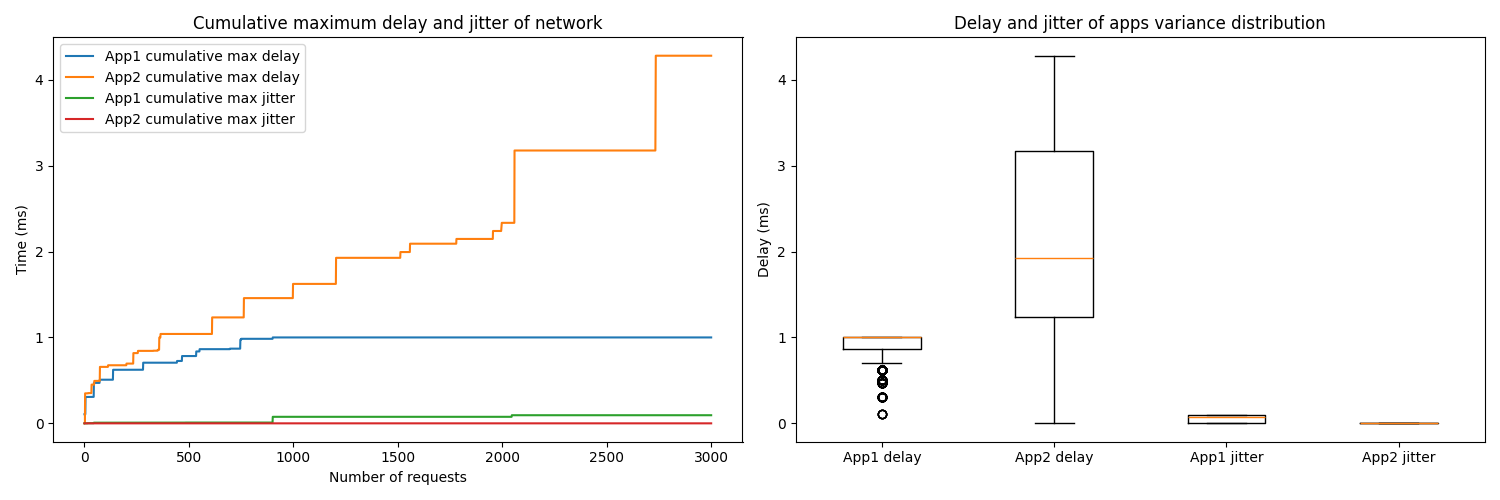
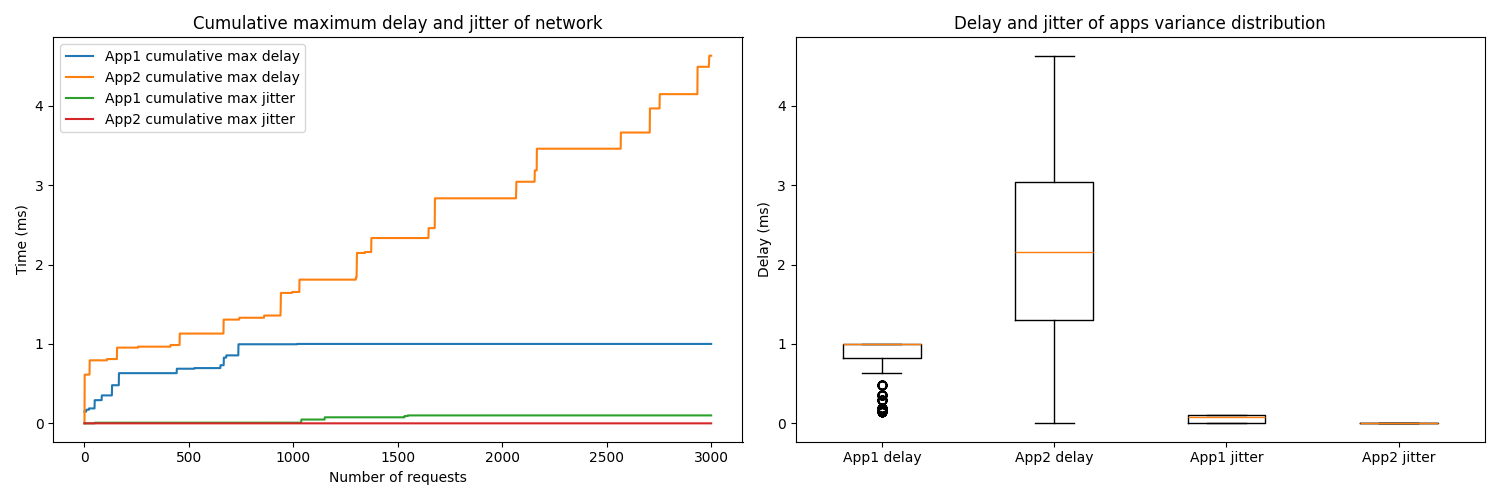
fixing the scheduling window size

diff --git a/heuristic_gui.py b/heuristic_gui.py
@@ -1,3 +1,4 @@
+import copy
 from problem.GRASP_model import GRASP
 from problem.flow import Flow
 from problem.greedy_model import Greedy
@@ -6,13 +7,12 @@ import json
 SOLVER = "greedy"
 
 # instance_generator/factor_f/instance_11.json
-with open('instance_generator/instances/instance_jitter/instance.json', 'r') as f:
+with open('tests/c11.json', 'r') as f:
     data = json.load(f)
 
     # constructive solution
     instance = Greedy(network_parameeter=data)
     instance.pre_processing()
-
 
     sol = instance.solve()
 
@@ -23,32 +23,7 @@ with open('instance_generator/instances/instance_jitter/instance.json', 'r') as 
         print("Constructive solution with maximum jitter", j, "maximum delay", d)
         #instance.ls()
 
-        link1 = instance.network.get_link_by_id(1)
-        fragmentation = {}
-        t_e = link1.get_t_e()
-        for obj in link1.fragmentation():
-            val,start,end = obj
-            if val == 1:
-                fragmentation[start] = end-start
-        
-        # with df split fragmentation in category
-        from pandas import DataFrame, cut
-        df = DataFrame(fragmentation.items(), columns=['start', 'size'])
-        SECTIONS = 40
-        df['category'] = cut(df['start'], bins=range(0, int(t_e) + 1, int(t_e/SECTIONS)), labels=range(1, int(t_e) + 1, int(t_e/SECTIONS)), right=False)
-        df['size'] = df['size'] * link1.tau_e / 10**3
-        #remove start column
-        df.drop(columns=['start'], inplace=True)
-        
-        # boxplot with df
-        import matplotlib.pyplot as plt
-        # draw boxplot
-        df.boxplot(column='size', by='category')
-        plt.title('Contiguos available time')
-        plt.ylabel('Available time (us)')
-        plt.xlabel('Cycle section')
-        plt.show()
-
+    
     if SOLVER == "grasp":
         instance = GRASP(network_parameeter=data)
         instance.set_alpha(0.1)
@@ -79,45 +54,15 @@ with open('instance_generator/instances/instance_jitter/instance.json', 'r') as 
         print("---",SOLVER,"---")
         print("Constructive solution with maximum jitter", j, "maximum delay", d)
 
-        if SOLVER == "brkga":
-            instance = BRKGADecoder(network_parameeter=data)
-            instance.pre_processing()
-
-            config = {
-                "individualsMultiplier" : 1,
-                "eliteProp" : 0.3,
-                "mutantProp" : 0.5,
-                "inheritanceProb" : 0.7,
-                "maxExecTime" : 10,
-            }
-
-            numGenes = instance.get_number_genes()
-
-            config['numGenes'] = numGenes
-            config['numIndividuals'] = int(config["individualsMultiplier"] * numGenes)
-            config['numElite'] = int(config["eliteProp"] * config["numIndividuals"])
-            config['numMutants'] = int(config["mutantProp"] * config['numIndividuals'])
-            config['numCrossover'] = int(config['numIndividuals'] - config['numElite']- config['numMutants'] )
-                
-            print(config)
-            
-            solver = Solver_BRKGA(config, instance)
-            solution,d_fi,j_f = solver.solve(initial_solution=(x_feti,d_fi,j_f),fitness=(j,d))
-            instance.x_feti = solution
-            instance.d_fi = d_fi
-            instance.j_f = j_f
-
         #instance.export_results("heuristic_results_pre")
         #print(instance.stat())
+        instance.new_request(Flow(-1,[1,2], 400, 1000, 400, 100))
+        instance.new_request(Flow(-1,[1,2], 400, 1000, 400, 100))
+        instance.new_request(Flow(-1,[1,2], 400, 1000, 400, 100))
         
+        instance.generate_gantt()
+
         """
-        # new request 1
-        flow = Flow(-1,[2], 500, 256, 128, 500)
-        instance.flow_prepare(flow)
-        if instance.new_request(flow):
-            instance.export_results("heuristic_results_post_1")
-        
-        
         # new request 2
         flow = Flow(-1,[1,3], 100, 256, 128, 200)
         instance.flow_prepare(flow)

diff --git a/instance_generator/generate_graph_xls.py b/instance_generator/generate_graph_xls.py
@@ -1,0 +1,72 @@
+
+from argparse import ArgumentParser
+import csv
+import os
+
+import pandas as pd
+
+parser = ArgumentParser()
+parser.add_argument("-f", "--filename", dest="filename", help="Output filename.", required=True)
+
+args = parser.parse_args()
+
+# generate a graph from csv file
+import matplotlib.pyplot as plt
+import numpy as np
+
+if args.filename is None:
+    print("Filename is required")
+    exit()
+
+if not args.filename.endswith(".xlsx"):
+    print("Filename must be a xlsx file")
+    exit()
+
+df = pd.read_excel(args.filename)
+
+
+n_requests = range(1, len(df)+1)
+
+app1_requests = df[ df['app'] == 'App_1']
+n_requests_app1 = range(1, len(app1_requests)+1)
+app2_requests = df[ df['app'] == 'App_2']
+n_requests_app2 = range(1, len(app2_requests)+1)
+
+# GRAPH 2 - KPI 
+figure, ax = plt.subplots(2,2, figsize=(15,15))
+ax[0,0].plot(n_requests_app1, app1_requests['delay'], label='App1 delay')
+ax[0,0].plot(n_requests_app1, app1_requests['jitter'], label='App1 jitter')
+ax[0,0].legend()
+ax[0,0].set_xlabel('Number of requests')
+ax[0,0].set_ylabel('Time (ms)')
+ax[0,0].set_title('Delay and jitter of App1')
+
+ax[0,1].plot(n_requests_app1, app1_requests['max_delay_app1'], label='App1 cumulative max delay')
+#ax[0,1].plot(app1_n_requests, app1_delay_mean, label='App1 cumulative mean delay')
+
+ax[0,1].plot(n_requests_app1, app1_requests['max_jitter_app1'], label='App1 cumulative max jitter')
+ax[0,1].legend()
+ax[0,1].set_xlabel('Number of requests')
+ax[0,1].set_ylabel('Time (ms)')
+ax[0,1].set_title('Cumulative maximum delay and jitter of App1')
+
+ax[1,0].plot(n_requests_app2, app2_requests['delay'], label='App2 delay')
+ax[1,0].plot(n_requests_app2, app2_requests['jitter'], label='App2 jitter')
+ax[1,0].legend()
+ax[1,0].set_xlabel('Number of requests')
+ax[1,0].set_ylabel('Time (ms)')
+ax[1,0].set_title('Delay and jitter of App2')
+
+ax[1,1].plot(n_requests_app2, app2_requests['max_delay_app2'], label='App2 cumulative max delay')
+#ax[1,1].plot(app2_n_requests, app2_delay_mean, label='App2 cumulative mean delay')
+
+ax[1,1].plot(n_requests_app2, app2_requests['max_jitter_app2'], label='App2 cumulative max jitter')
+ax[1,1].legend()
+ax[1,1].set_xlabel('Number of requests')
+ax[1,1].set_ylabel('Time (ms)')
+ax[1,1].set_title('Cumulativ emaximum delay and jitter of App2')
+plt.tight_layout()
+#extract the folder name
+folder_name = os.path.dirname(args.filename)
+plt.savefig(f'{folder_name}/kpi.png')
+

diff --git a/problem/heuristics_model.py b/problem/heuristics_model.py
@@ -424,6 +424,7 @@ class Heuristics(TSNScheduling):
     def new_request(self, flow : Flow, ch = None) :
 
         flow = self.flow_prepare(flow)
+        
         tick = self.now()
         network = copy.deepcopy(self.network)
         incumbent = copy.deepcopy(self.x_feti)
@@ -457,10 +458,11 @@ class Heuristics(TSNScheduling):
             if best_delay > flow["flow"].get_max_delay():
                 flow["flow"].set_max_delay(best_delay)
 
-            step = flow["flow"].get_w_fe()[flow["flow"].get_E_f()[0]]
+            
             for e_id, t in best_candidate:
                 e = self.network.get_link_by_id(e_id)
                 t_e = e.get_t_e()
+                step = flow["flow"].get_w_fe()[e_id]
                 for k in range(0, step):
                     _t = t + k
                     if _t > t_e: _t = _t - t_e

diff --git a/problem/solver.py b/problem/solver.py
@@ -168,7 +168,7 @@ class TSNScheduling:
         fig, ax = plt.subplots(figsize=(10, 5))
         for i, row in df.iterrows():
             flow = row['flow']
-            color = colors[flow]
+            color = np.random.rand(3,)
             ax.barh(row['link'], row['duration'], left=row['start'], color=color, label=row['link'])
         
         for link in self.network.get_links():
@@ -187,7 +187,7 @@ class TSNScheduling:
         ax.grid(which='major', axis='x', linestyle='-')
     
         
-        plt.savefig(file_name)
+        plt.show()
 
     
     def pipeline(self,e1,e2,flow_id) -> float:  

diff --git a/instance_generator/generator.py b/instance_generator/generator.py
@@ -153,9 +153,6 @@ requests = []
 PATHS  = dict(nx.all_pairs_shortest_path(network.G))
 for id in range(1, int(args.number) + 1):
     path = network.random_path(src_list=ue_src, dest_list=dest, paths=PATHS, debug=False)
-    #reverse list 
-    path = path[::-1]
-    print(path)
     size = random.randint(int(args.size), int(args.size) + 30)
 
     if args.app and int(args.app) == 1:
